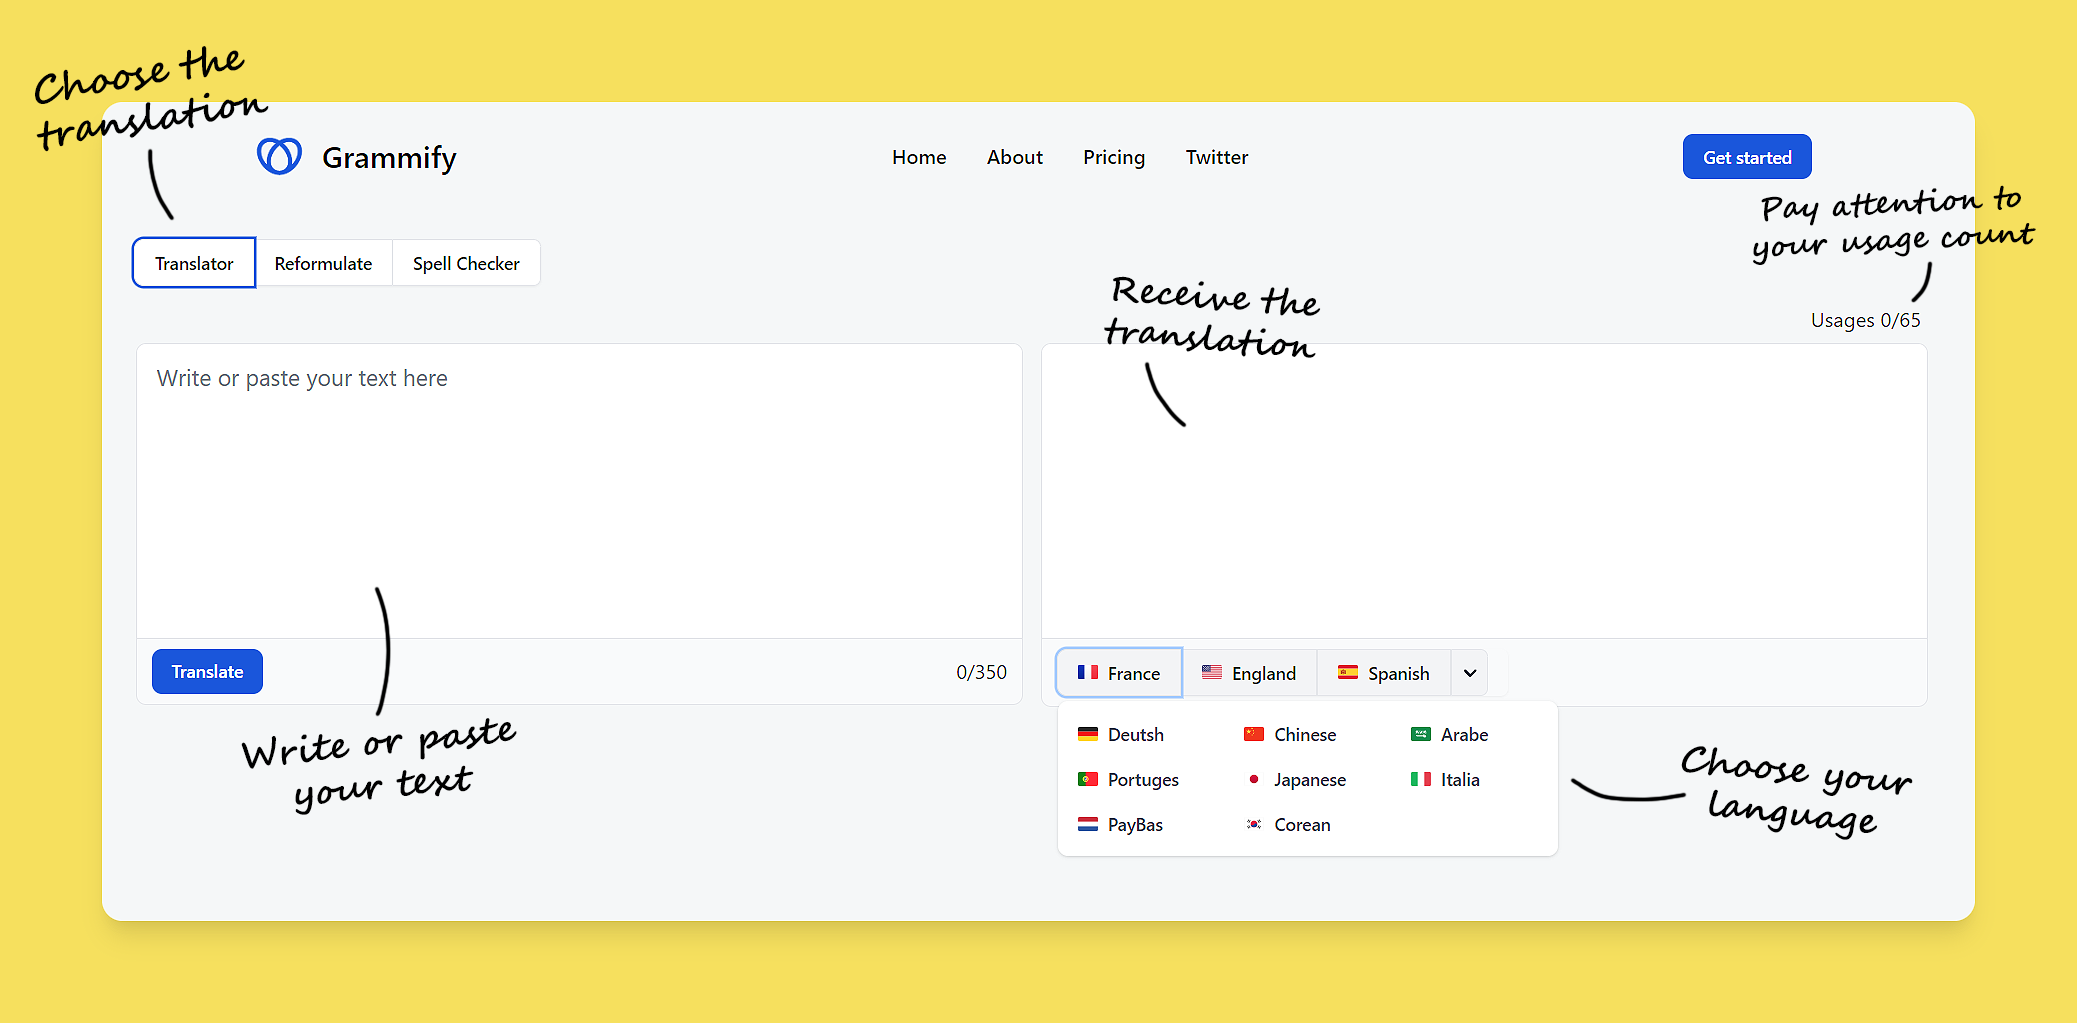
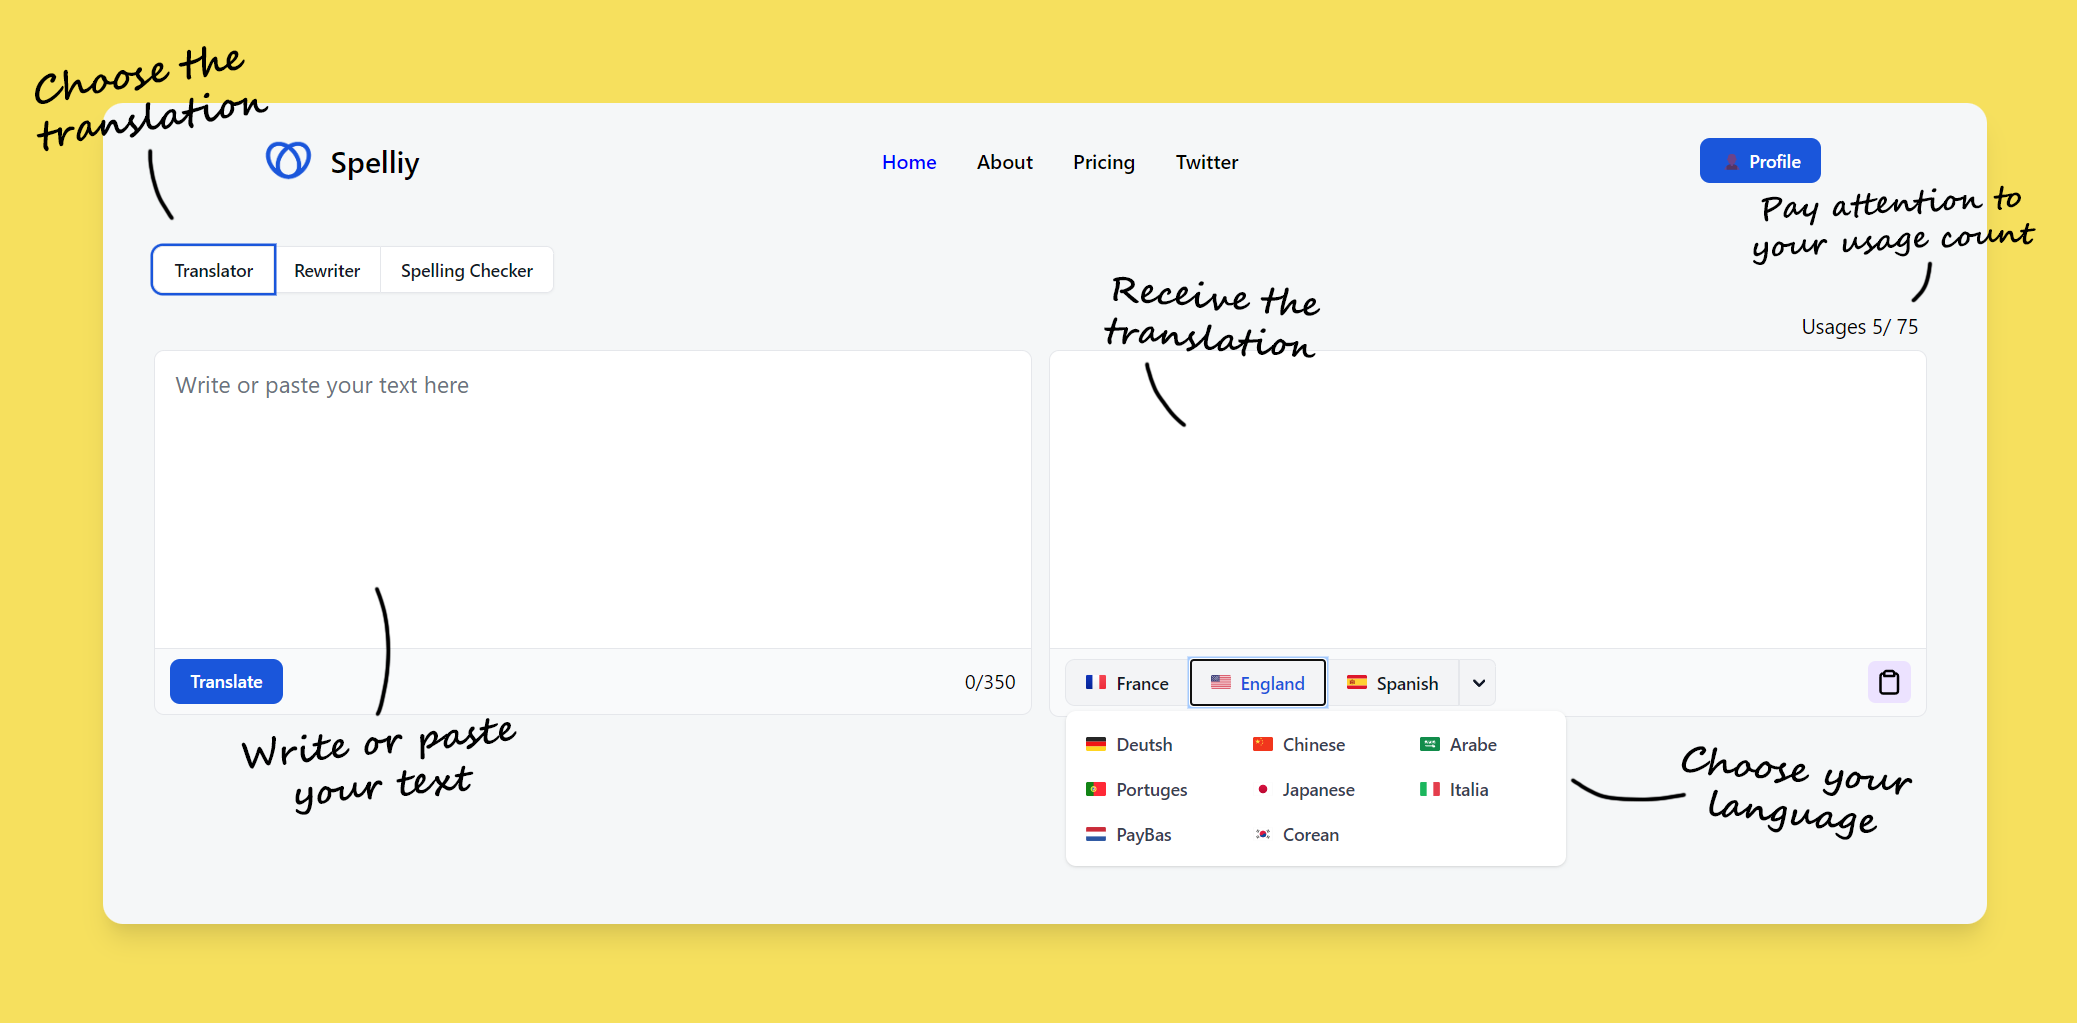
feat: change style navbar + fix burger

diff --git a/src/app/components/navbar/navbar.component.html b/src/app/components/navbar/navbar.component.html
@@ -1,25 +1,36 @@
-<nav class="navbar border-gray-200 dark:bg-gray-900">
-  <div class="max-w-screen-xl flex flex-wrap items-center justify-between mx-auto p-4">
+<nav class="navbar bg-white border-gray-200 dark:bg-gray-900">
+  <div class="w-11/12 flex flex-wrap items-center justify-between mx-auto">
     <!-- Logo Redirect to /translator -->
     <a href="/translator" class="flex items-center">
-      <img src="../../assets/logo.png" class="h-11 mr-3" alt="Grammify Logo" />
-      <span class="self-center text-2xl font-semibold whitespace-nowrap dark:text-white">Grammify</span>
+      <img src="../../assets/logo.png" class="h-11 mr-3" alt="Spelliy Logo" />
+      <span class="self-center text-2xl font-semibold whitespace-nowrap dark:text-white">Spelliy</span>
     </a>
     <!-- Get Sarted Button -->
-    <div class="flex md:order-2">
+    <div class="flex md:order-2 gap-2">
       <button
         (click)="redirectToLoginPage()"
+        *ngIf="login"
         type="button"
-        class="text-white bg-blue-700 hover:bg-blue-800 focus:ring-4 focus:outline-none focus:ring-blue-300 font-medium rounded-lg text-sm px-4 py-2 text-center mr-3 md:mr-0 dark:bg-blue-600 dark:hover:bg-blue-700 dark:focus:ring-blue-800"
+        class="text-dark bg-transparent hover:bg-gray-200 border border-gray-300 focus:ring-4 focus:outline-none focus:ring-gray-300 font-medium rounded-lg text-sm px-4 py-2 text-center mr-3 md:mr-0"
       >
         {{ login }}
       </button>
+
+      <button
+        (click)="redirectToSignupPage()"
+        type="button"
+        class="text-white bg-blue-700 hover:bg-blue-800 focus:ring-4 focus:outline-none focus:ring-blue-300 font-medium rounded-lg text-sm px-4 py-2 text-center mr-3 md:mr-0 dark:bg-blue-600 dark:hover:bg-blue-700 dark:focus:ring-blue-800"
+      >
+        {{ signup }}
+      </button>
+
       <button
         data-collapse-toggle="navbar-cta"
+        (click)="toggleNavbar()"
         type="button"
         class="inline-flex items-center p-2 w-10 h-10 justify-center text-sm text-gray-500 rounded-lg md:hidden hover:bg-gray-100 focus:outline-none focus:ring-2 focus:ring-gray-200 dark:text-gray-400 dark:hover:bg-gray-700 dark:focus:ring-gray-600"
         aria-controls="navbar-cta"
-        aria-expanded="false"
+        [attr.aria-expanded]="isNavbarOpen ? 'true' : 'false'"
       >
         <span class="sr-only">Open main menu</span>
         <svg class="w-5 h-5" aria-hidden="true" xmlns="http://www.w3.org/2000/svg" fill="none" viewBox="0 0 17 14">

diff --git a/src/app/components/signup/signup.component.ts b/src/app/components/signup/signup.component.ts
@@ -1,6 +1,6 @@
 import { HttpClient, HttpHeaders } from '@angular/common/http';
 import { Component } from '@angular/core';
-import { FormBuilder } from '@angular/forms';
+import { FormBuilder, FormGroup, Validators } from '@angular/forms';
 import { Router } from '@angular/router';
 import { UnknownUserService } from 'src/app/services/unknown-user.service';
 import { UsersService } from 'src/app/services/users.service';
@@ -13,16 +13,17 @@ import { EnvironnementService } from 'src/app/services/environnement.service';
   styleUrls: ['./signup.component.scss']
 })
 export class SignupComponent {
+  signupForm: FormGroup;
   envUrl: any;
   displayErrorMessage: String | undefined;
   isLoading: boolean = false;
 
-  constructor(private environnementService: EnvironnementService, private router: Router, private http: HttpClient, private formBuilder: FormBuilder, private unknownUserService: UnknownUserService, private usersService: UsersService, private usagesService: UsagesService) { }
-  
-  signupForm = this.formBuilder.group({
-    email: '',
-    password: ''
-  });
+  constructor(private environnementService: EnvironnementService, private router: Router, private http: HttpClient, private formBuilder: FormBuilder, private unknownUserService: UnknownUserService, private usersService: UsersService, private usagesService: UsagesService) {
+    this.signupForm = this.formBuilder.group({
+      email: ['', [Validators.required, Validators.email]],
+      password: ['', Validators.required],
+    });
+  }
 
   redirectToLoginPage() {
     this.router.navigate(['/login']);
@@ -41,6 +42,18 @@ export class SignupComponent {
     const headers = new HttpHeaders({
       'Content-Type': 'application/json'
     });
+
+    if (this.signupForm.get('email')!.invalid) {
+      this.displayErrorMessage = "Please enter a valid email address.";
+      this.isLoading = false;
+      return;
+    }
+
+    if (this.signupForm.value.password!.length < 8) {
+      this.displayErrorMessage = "Password must be at least 8 characters long"
+      this.isLoading = false
+      return
+    }
 
     const uri = this.environnementService.getUrlBackend() + "/users/signup"
     

diff --git a/src/app/components/navbar/navbar.component.ts b/src/app/components/navbar/navbar.component.ts
@@ -9,20 +9,32 @@ import { UsersService } from 'src/app/services/users.service';
 })
 export class NavbarComponent {
   activePageClass: any = 'gray';
-  login: String | undefined = "Get Started";
+  signup: String | undefined = "Get Started";
+  login: String | undefined = "";
+  isNavbarOpen = false;
 
   constructor(private router: Router, private usersService: UsersService) {
     this.usersService.email$.subscribe(email => {
       if(email) {
-        this.login = "👤 Profile";
+        this.signup = "👤 Profile";
       } else {
-        this.login = "🚀 Get Started"
+        this.login = "Login"
+        this.signup = "🚀 Get Started"
       }
     });
   }
 
   isHomePage() {
     return this.router.url.startsWith('/translator') || this.router.url.startsWith('/rewriter') || this.router.url.startsWith('/spell-checker')
+  }
+
+  toggleNavbar() {
+    this.isNavbarOpen = !this.isNavbarOpen;
+    if (this.isNavbarOpen) {
+      document.getElementById('navbar-cta')?.classList.remove('hidden')
+    } else {
+      document.getElementById('navbar-cta')?.classList.add('hidden')
+    }
   }
 
   isAboutPage() {
@@ -52,6 +64,14 @@ export class NavbarComponent {
   redirectToLoginPage() {
     if (!this.usersService.getUserId()) {
       this.router.navigate(['/login']);
+    } else {
+      this.router.navigate(['/profil']);
+    }
+  }
+
+  redirectToSignupPage() {
+    if (!this.usersService.getUserId()) {
+      this.router.navigate(['/signup']);
     } else {
       this.router.navigate(['/profil']);
     }

diff --git a/src/app/components/about/about.component.html b/src/app/components/about/about.component.html
@@ -22,12 +22,17 @@
   </div>
   <!-- Reformulate -->
   <div class="assetsWith2Container">
-    <div class="assetsTitleWith2Container flexbox">Rewrite your text with Grammify effortlessly.</div>
+    <div class="assetsTitleWith2Container flexbox">Rewrite your text with Spelliy effortlessly</div>
     <img src="./../../../assets/tuto/reformulate.png" class="imgWith2Container" alt="" />
   </div>
   <!-- Spell Checker -->
   <div class="assetsWith2Container assets2ContainerSpellChecker">
     <img src="./../../../assets/tuto/spell-checker.png" class="imgWith2Container" alt="" />
-    <div class="assetsTitleWith2Container flexbox">Refine your text with Grammify's spell checker</div>
+    <div class="assetsTitleWith2Container flexbox">Refine your text with Spelliy's spell checker</div>
+  </div>
+  <!-- Pricing -->
+  <div class="assetsWith2Container">
+    <div class="assetsTitleWith2Container flexbox">Choose your preferred subscription and get lots of bonuses!</div>
+    <img src="./../../../assets/tuto/pricing.png" class="imgWith2Container" alt="" />
   </div>
 </div>

diff --git a/src/app/components/footer/footer.component.html b/src/app/components/footer/footer.component.html
@@ -1,8 +1,8 @@
 <div class="technoContainer">
   <!-- Title -->
-  <div class="technoTitle">Powered by artificial intelligence, <span class="grammifyTitle">Grammify</span> offers advanced capabilities</div>
+  <div class="technoTitle">Powered by artificial intelligence, <span class="spelliyTitle">Spelliy</span> offers advanced capabilities</div>
   <!-- Description -->
-  <div class="technoDescription flexbox">Experience the power of Grammify by OpenAI, your trusted AI text refinement companion, for advanced grammar checks, sentence enhancement, and improved writing precision.</div>
+  <div class="technoDescription flexbox">Experience the power of Spelliy by OpenAI, your trusted AI text refinement companion, for advanced grammar checks, sentence enhancement, and improved writing precision.</div>
   <!-- OpenAI icon -->
   <div class="containerOpenai flexbox">
     <!-- Svg OpenAI -->

diff --git a/src/app/app.component.spec.ts b/src/app/app.component.spec.ts
@@ -14,16 +14,16 @@ describe('AppComponent', () => {
     expect(app).toBeTruthy();
   });
 
-  it(`should have as title 'GrammifyFront'`, () => {
+  it(`should have as title 'SpelliyFront'`, () => {
     const fixture = TestBed.createComponent(AppComponent);
     const app = fixture.componentInstance;
-    expect(app.title).toEqual('GrammifyFront');
+    expect(app.title).toEqual('SpelliyFront');
   });
 
   it('should render title', () => {
     const fixture = TestBed.createComponent(AppComponent);
     fixture.detectChanges();
     const compiled = fixture.nativeElement as HTMLElement;
-    expect(compiled.querySelector('.content span')?.textContent).toContain('GrammifyFront app is running!');
+    expect(compiled.querySelector('.content span')?.textContent).toContain('SpelliyFront app is running!');
   });
 });

diff --git a/src/app/components/signup/signup.component.html b/src/app/components/signup/signup.component.html
@@ -36,7 +36,7 @@
 
   <!-- Title -->
   <div class="titlesignup"><span class="spanTitle">Create an account </span> and Write</div>
-  <div class="flexbox descriptionsignup">we transform into perfection with Grammify</div>
+  <div class="flexbox descriptionsignup">we transform into perfection with Spelliy</div>
 </div>
 <div class="signupContainer flex flex-col items-center justify-center px-6 py-5 mx-auto">
   <div class="w-full bg-white rounded-lg shadow dark:border md:mt-0 sm:max-w-md xl:p-0 dark:bg-gray-800 dark:border-gray-700">

diff --git a/src/app/components/create-account/create-account.component.html b/src/app/components/create-account/create-account.component.html
@@ -1,5 +1,5 @@
 <div class="createAccountContainer">
-  <div class="createAccountTitle">To use this tool, you must create a <span class="grammifyTitle">Grammify</span> account.</div>
+  <div class="createAccountTitle">To use this tool, you must create a <span class="spelliyTitle">Spelliy</span> account.</div>
   <button
     type="button"
     (click)="redirectToLoginPage()"

diff --git a/src/app/app.component.ts b/src/app/app.component.ts
@@ -13,7 +13,7 @@ import { UsagesService } from './services/usages.service';
   styleUrls: ['./app.component.scss']
 })
 export class AppComponent implements OnInit {
-  title = 'GrammifyFront';
+  title = 'SpelliyFront';
   isDisplayNavBar = true;
   isSmallScreen: boolean = false;
   isLoading: boolean = true;

diff --git a/src/index.html b/src/index.html
@@ -2,7 +2,7 @@
 <html lang="en">
 <head>
   <meta charset="utf-8">
-  <title>Grammify</title>
+  <title>Spelliy</title>
   <base href="/">
   <meta name="viewport" content="width=device-width, initial-scale=1">
   <link rel="icon" type="image/x-icon" href="favicon.ico">

diff --git a/src/app/components/mobile/mobile.component.html b/src/app/components/mobile/mobile.component.html
@@ -13,5 +13,5 @@
     <div class="title2">The recommended minimum screen resolution is 370px wide</div>
   </div>
   <!-- Footer -->
-  <div class="footerContainer">@Grammify</div>
+  <div class="footerContainer">@Spelliy</div>
 </div>

diff --git a/src/app/components/footer/footer.component.scss b/src/app/components/footer/footer.component.scss
@@ -66,7 +66,7 @@
   border-radius: 50%;
 }
 
-.grammifyTitle {
+.spelliyTitle {
   background-image: linear-gradient(204deg, rgba(0,215,255,1) 0%, rgba(33,0,255,1) 100%);
   color: transparent;
   -webkit-background-clip: text;
